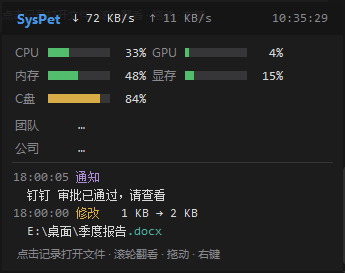
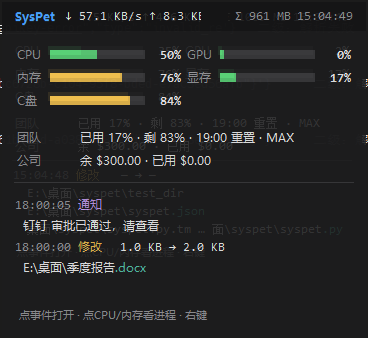
Rework layout per impeccable craft-floor: monospace only for measurements, grouped spacing rhythm, bold gauge values

diff --git a/syspet.py b/syspet.py
@@ -21,7 +21,7 @@ except Exception:
     CUIAutomation = IUIAutomation = None
 
 log = logging.getLogger('syspet')
-__version__ = '1.7.7'
+__version__ = '1.8.0'
 # PyInstaller exe 运行时配置/日志放 exe 旁（绿色软件惯例）；脚本运行时放脚本旁
 BASE = Path(sys.executable if getattr(sys, 'frozen', False) else __file__)
 RUN_KEY = (winreg.HKEY_CURRENT_USER, r'Software\Microsoft\Windows\CurrentVersion\Run')
@@ -121,7 +121,7 @@ class Gauge:
                             highlightthickness=0, bd=0)
         self.cv.grid(row=row, column=col + 1, padx=(2, 5))
         self.val = tk.Label(parent, text='—', bg=BG, fg=FG,
-                            font=('Consolas', 10),  # 等宽数字，数值变化不抖动
+                            font=('Consolas', 10, 'bold'),  # 测量值：等宽+粗，强调来自字重
                             width=4, anchor='e')
         self.val.grid(row=row, column=col + 2, sticky='e')
 
@@ -903,10 +903,11 @@ class Pet:
         r.overrideredirect(True)
         r.attributes('-topmost', True, '-alpha', 0.88)
         r.configure(bg=BG)
-        f, e_f = ('Microsoft YaHei UI', 9), ('Consolas', 9)  # 标签雅黑，数据等宽
+        # 等宽只用于测量值；标签/路径/文案用正文字体（去"技术戏服"感）
+        f, e_f = ('Microsoft YaHei UI', 9), ('Microsoft YaHei UI', 9)
 
         head = tk.Frame(r, bg='#141416')
-        head.pack(fill='x', ipady=4)
+        head.pack(fill='x', ipady=3)
         tk.Label(head, text='SysPet', bg='#141416', fg=ACCENT,
                  font=('Microsoft YaHei UI', 9, 'bold')).pack(side='left', padx=(10, 4))
         hf = ('Consolas', 9)
@@ -921,7 +922,7 @@ class Pet:
         self.c_day.pack(side='right')
 
         sysf = tk.Frame(r, bg=BG)
-        sysf.pack(fill='x', padx=10, pady=(6, 2))
+        sysf.pack(fill='x', padx=12, pady=(12, 6))
         self.g_cpu = Gauge(sysf, 'CPU', 0, 0, f)
         self.g_gpu = Gauge(sysf, 'GPU', 0, 3, f)
         self.g_mem = Gauge(sysf, '内存', 1, 0, f)
@@ -932,14 +933,15 @@ class Pet:
                 wgt.bind('<Button-1>', lambda e, k=kind:
                          (self.show_top(k), 'break')[1])
         self.ai_f = tk.Frame(r, bg=BG)  # AI 用量行独立紧凑布局，不受仪表列宽影响
-        self.ai_f.pack(fill='x', padx=10, pady=(2, 0))
+        self.ai_f.pack(fill='x', padx=12, pady=(8, 2))
 
-        tk.Frame(r, bg=TRACK, height=1).pack(fill='x', padx=10, pady=(2, 4))
-        self.txt = tk.Text(r, bg=BG, fg=FG, font=e_f, bd=0, height=4, width=38,
+        tk.Frame(r, bg=TRACK, height=1).pack(fill='x', padx=12, pady=(8, 10))
+        self.txt = tk.Text(r, bg=BG, fg=FG, font=e_f, bd=0, height=5, width=38,
                            highlightthickness=0, wrap='none', spacing1=2, spacing3=2,
                            state='disabled', cursor='arrow')
-        self.txt.pack(fill='both', expand=True, padx=10)
-        self.txt.tag_config('ts', foreground=DIM)
+        self.txt.pack(fill='both', expand=True, padx=12)
+        self.txt.tag_config('ts', foreground=DIM, font=('Consolas', 9))  # 时间=测量值
+        self.txt.tag_config('mono', font=('Consolas', 9))                # 大小=测量值
         self.txt.tag_config('ext', foreground='#56c8b0')
         for t, c in (('新增', '#5ad478'), ('删除', '#f0635f'),
                      ('修改', '#f2c14e'), ('改名', '#61a5f2'),
@@ -957,7 +959,7 @@ class Pet:
 
         self.hint = tk.Label(r, bg=BG, fg=DIM, font=('Microsoft YaHei UI', 8),
                              anchor='w', width=40, text=HINT)
-        self.hint.pack(fill='x', padx=12, pady=(2, 6))
+        self.hint.pack(fill='x', padx=14, pady=(4, 10))
 
         menu = tk.Menu(r, tearoff=0)
         menu.add_command(label='配置 AI 供应商…', command=self._cfg_ai)
@@ -1092,7 +1094,7 @@ class Pet:
         t.insert('1.0', '  ', 'ev')                            #        缩进
         t.insert('1.0', '\n')                                  # 摘要→路径换行
         t.insert('1.0', '' if tag in ('通知', '告警') else f'  {size(old)} → {size(new)}',
-                 'ev')                                         # 摘要行: 大小（通知/告警无）
+                 ('mono', 'ev'))                                      # 摘要行: 大小（通知/告警无）
         t.insert('1.0', f'{tag} ', (f't-{tag}', 'ev'))         #        类型
         t.insert('1.0', f'{ts} ', ('ts', 'ev'))                #        时间
         if int(t.index('end-1c').split('.')[0]) > KEEP * 2:
@@ -1162,7 +1164,7 @@ class Pet:
                          font=('Microsoft YaHei UI', 9), anchor='w')
             n.pack(side='left')
             v = tk.Label(row, text=val or '查询失败', bg=BG, fg=FG,
-                         font=('Consolas', 9), anchor='w')
+                         font=('Microsoft YaHei UI', 9), anchor='w')
             v.pack(side='left', fill='x', expand=True, padx=(8, 0))  # 拉满剩余宽度
             self._ai_rows += [row]
 
